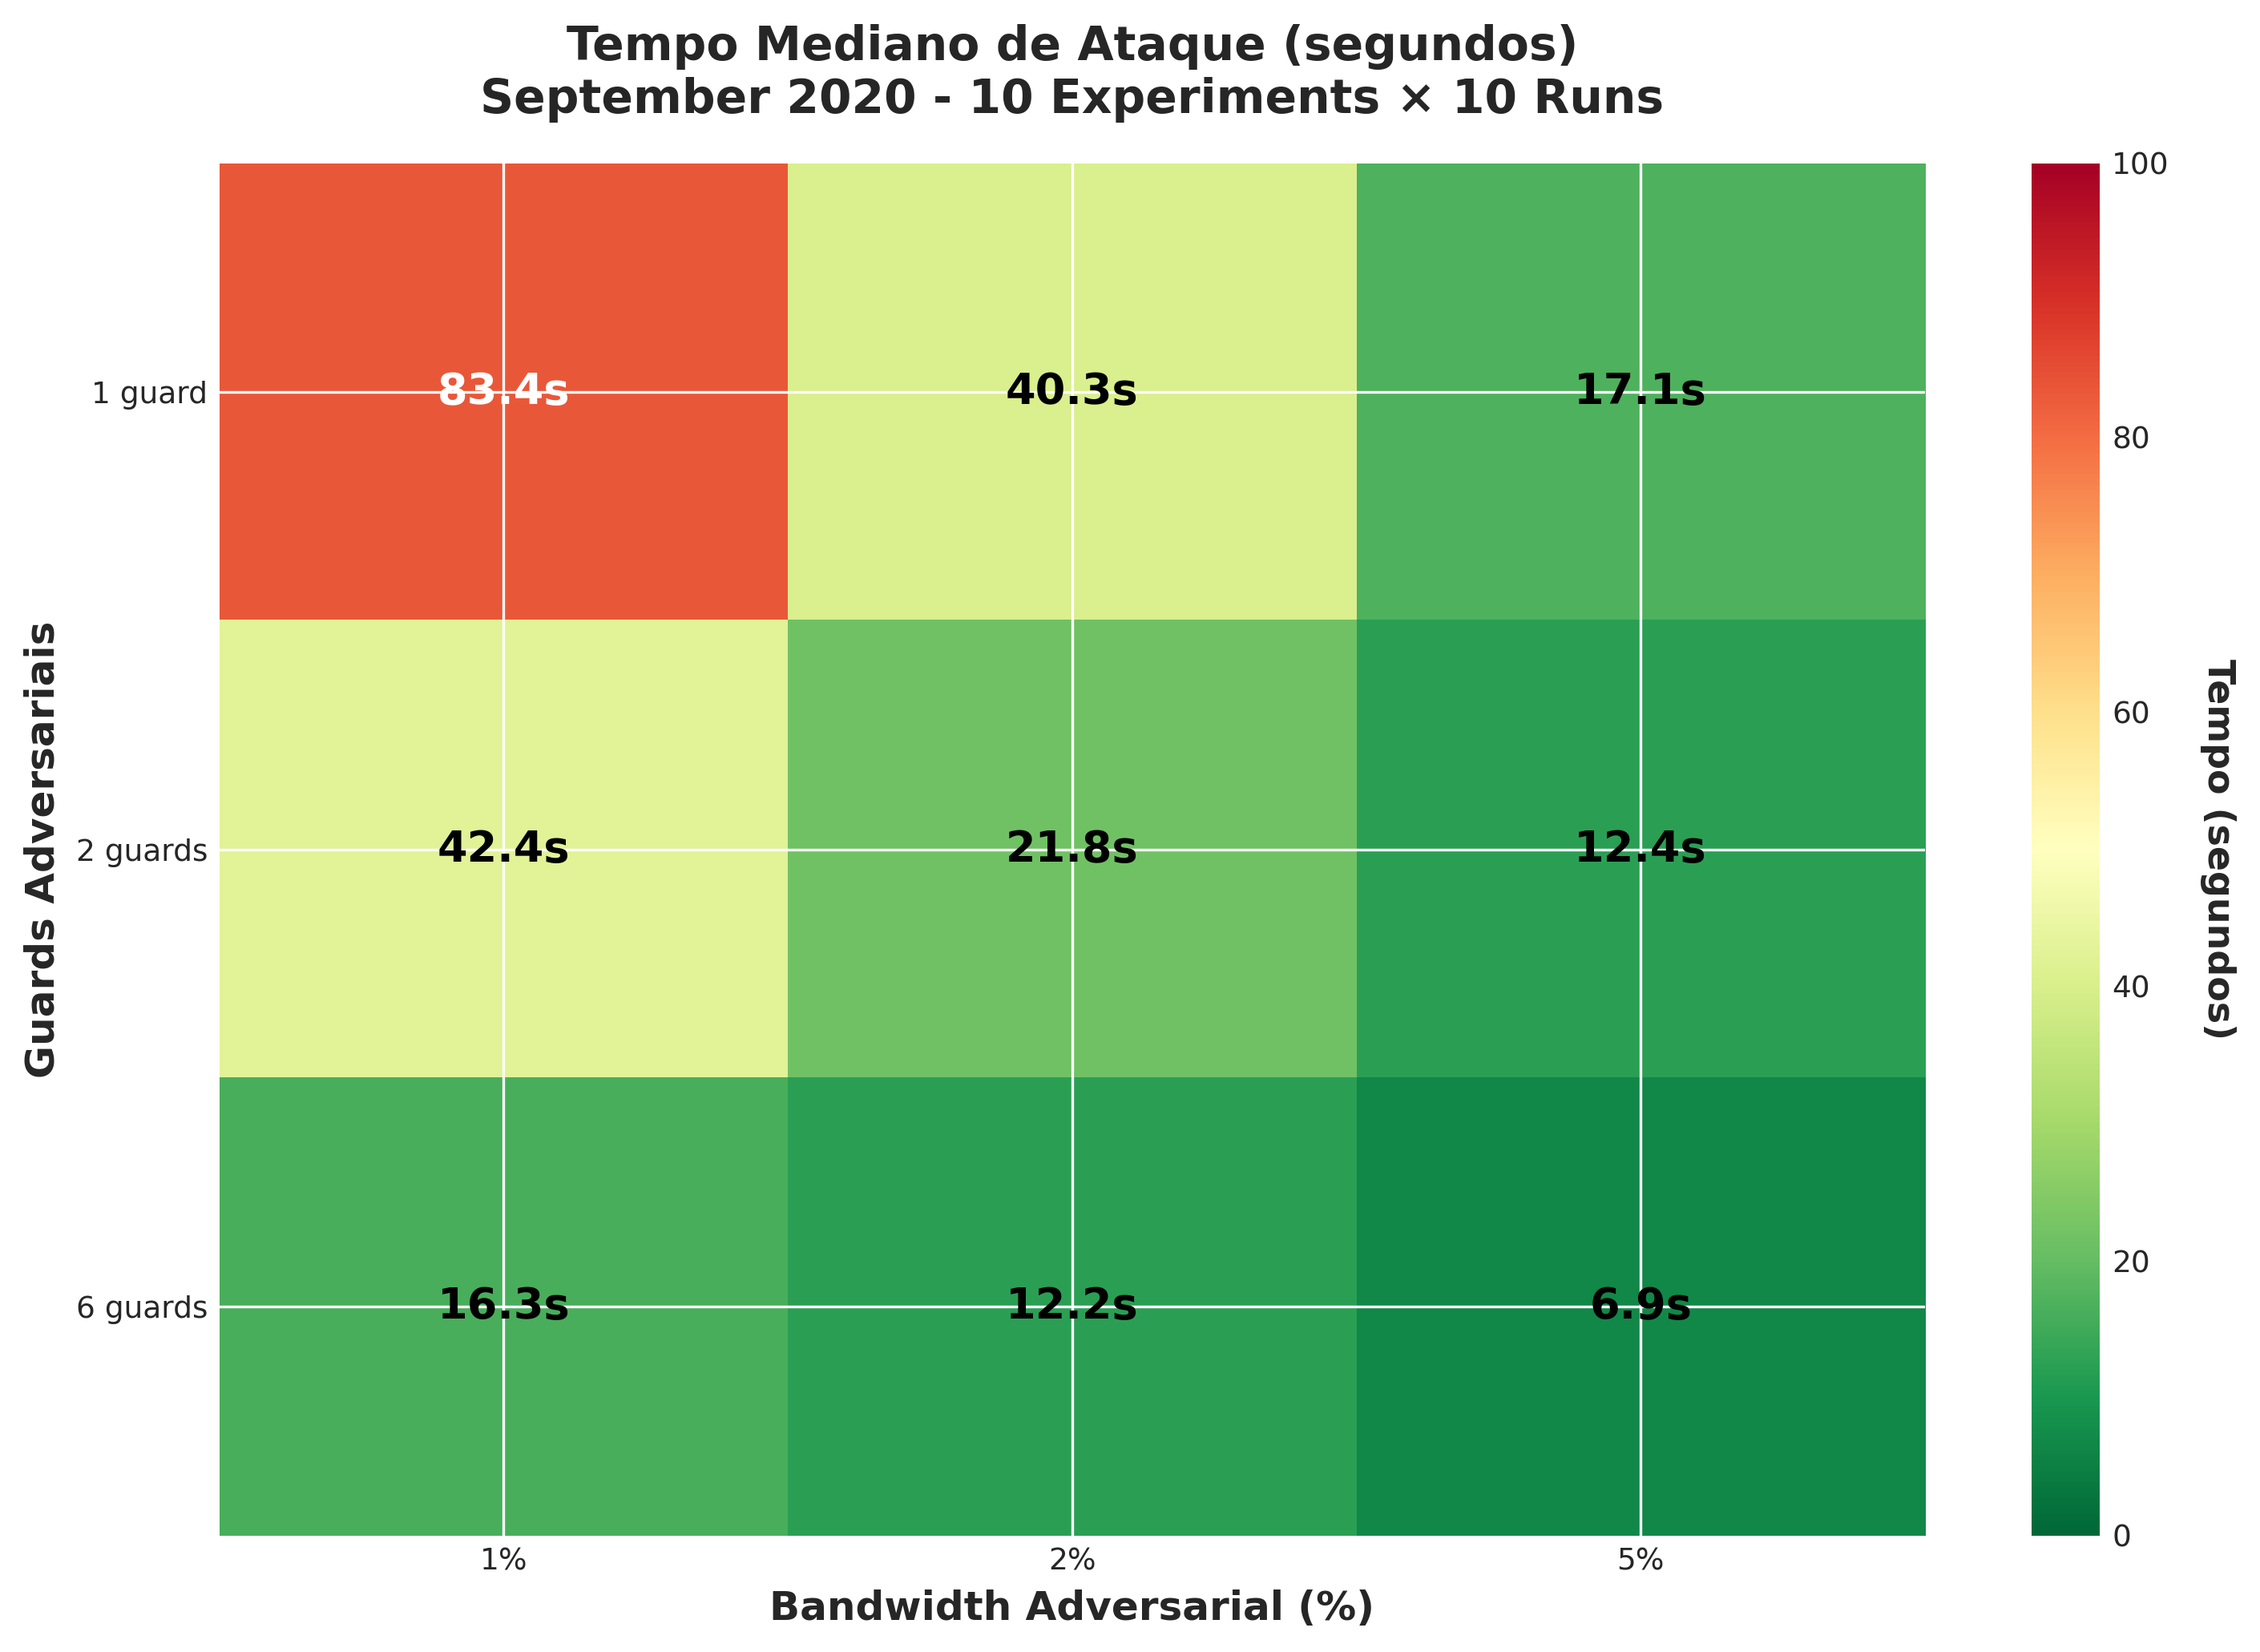
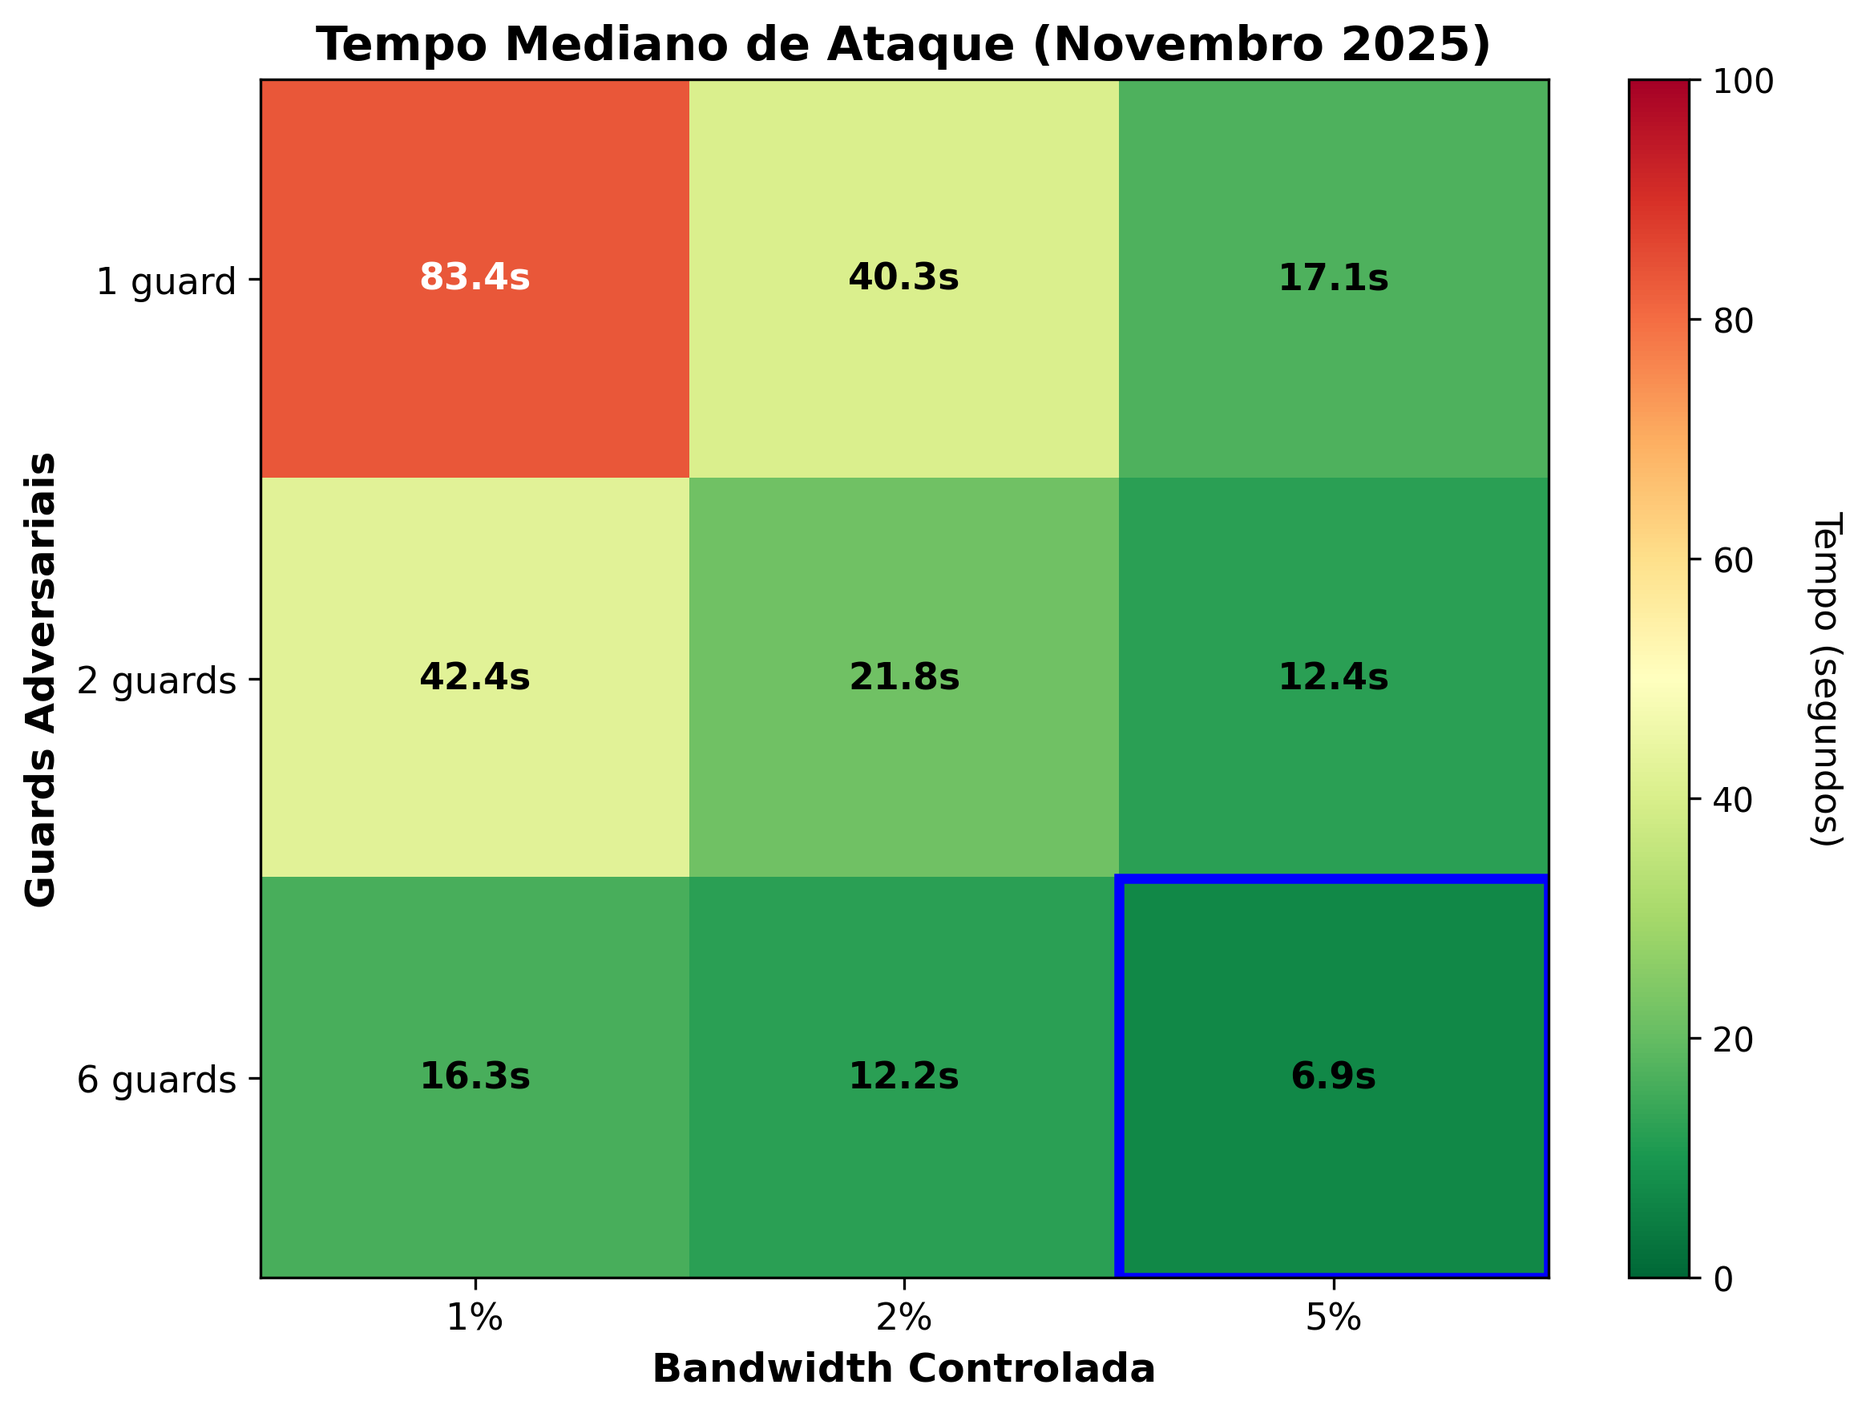
graph update

diff --git a/5_evaluation/generate_2025_graphs.py b/5_evaluation/generate_2025_graphs.py
@@ -1,0 +1,187 @@
+#!/usr/bin/env python3
+"""
+Gera gráficos específicos para dados de 2025
+"""
+
+import json
+import matplotlib.pyplot as plt
+import numpy as np
+from pathlib import Path
+
+# Configuração
+DATA_DIR = Path("study-2025/results")
+OUTPUT_DIR = Path("study-2025/graphs")
+OUTPUT_DIR.mkdir(exist_ok=True)
+
+configs = [
+    (1, 0.01), (1, 0.02), (1, 0.05),
+    (2, 0.01), (2, 0.02), (2, 0.05),
+    (6, 0.01), (6, 0.02), (6, 0.05)
+]
+
+# Ler dados de 2025
+medians_2025 = []
+success_rates_2025 = []
+labels = []
+
+for guards, bw in configs:
+    filename = DATA_DIR / f"time_to_double_comp_{guards}_{bw:.2f}_0_0.000.json"
+    with open(filename) as f:
+        data = json.load(f)
+    
+    durations = [d for d in data['attack_durations'] if d < 300]
+    total = len(data['attack_durations'])
+    
+    if durations:
+        medians_2025.append(np.median(durations))
+    else:
+        medians_2025.append(300)  # timeout
+    
+    success_rates_2025.append(len(durations) / total * 100)
+    labels.append(f'{guards}g, {int(bw*100)}%')
+
+print(f"Dados processados: {len(medians_2025)} configurações")
+
+# ===== GRÁFICO 1: Barras de tempos 2025 =====
+fig, ax = plt.subplots(figsize=(12, 6))
+x = np.arange(len(labels))
+bars = ax.bar(x, medians_2025, color='#2ca02c', alpha=0.8, label='2025')
+
+ax.set_xlabel('Configuração (Guards, Bandwidth)', fontsize=12, fontweight='bold')
+ax.set_ylabel('Tempo Mediano (segundos)', fontsize=12, fontweight='bold')
+ax.set_title('Tempos de Ataque - Dados Novembro 2025', fontsize=14, fontweight='bold')
+ax.set_xticks(x)
+ax.set_xticklabels(labels, rotation=45, ha='right')
+ax.legend(fontsize=11)
+ax.grid(axis='y', alpha=0.3)
+
+# Destacar cenário realista (2g, 5% = índice 5)
+bars[5].set_color('#ff7f0e')
+bars[5].set_alpha(1.0)
+
+plt.tight_layout()
+output_file = OUTPUT_DIR / "attack_times_2025.png"
+plt.savefig(output_file, dpi=300, bbox_inches='tight')
+print(f"✓ Criado: {output_file}")
+plt.close()
+
+# ===== GRÁFICO 2: Heatmap 2025 =====
+medians_matrix = np.array(medians_2025).reshape(3, 3)
+
+fig, ax = plt.subplots(figsize=(8, 6))
+im = ax.imshow(medians_matrix, cmap='RdYlGn_r', aspect='auto', vmin=0, vmax=100)
+
+ax.set_xticks([0, 1, 2])
+ax.set_xticklabels(['1%', '2%', '5%'], fontsize=11)
+ax.set_yticks([0, 1, 2])
+ax.set_yticklabels(['1 guard', '2 guards', '6 guards'], fontsize=11)
+ax.set_xlabel('Bandwidth Controlada', fontsize=12, fontweight='bold')
+ax.set_ylabel('Guards Adversariais', fontsize=12, fontweight='bold')
+ax.set_title('Tempo Mediano de Ataque (Novembro 2025)', fontsize=14, fontweight='bold')
+
+# Adicionar valores nas células
+for i in range(3):
+    for j in range(3):
+        value = medians_matrix[i, j]
+        text_color = 'white' if value > 50 else 'black'
+        ax.text(j, i, f'{value:.1f}s',
+                ha='center', va='center', color=text_color, 
+                fontsize=11, fontweight='bold')
+
+# Destacar cenário realista (2g, 5%)
+rect = plt.Rectangle((1.5, 1.5), 1, 1, fill=False, edgecolor='blue', linewidth=3)
+ax.add_patch(rect)
+
+cbar = plt.colorbar(im, ax=ax)
+cbar.set_label('Tempo (segundos)', rotation=270, labelpad=20, fontsize=11)
+
+plt.tight_layout()
+output_file = OUTPUT_DIR / "attack_time_heatmap_2025.png"
+plt.savefig(output_file, dpi=300, bbox_inches='tight')
+print(f"✓ Criado: {output_file}")
+plt.close()
+
+# ===== GRÁFICO 3: Taxa de sucesso 2025 =====
+fig, ax = plt.subplots(figsize=(12, 6))
+bars = ax.bar(x, success_rates_2025, color='#1f77b4', alpha=0.8)
+
+ax.set_xlabel('Configuração (Guards, Bandwidth)', fontsize=12, fontweight='bold')
+ax.set_ylabel('Taxa de Sucesso (%)', fontsize=12, fontweight='bold')
+ax.set_title('Taxa de Sucesso do Ataque - Novembro 2025', fontsize=14, fontweight='bold')
+ax.set_xticks(x)
+ax.set_xticklabels(labels, rotation=45, ha='right')
+ax.set_ylim(0, 105)
+ax.grid(axis='y', alpha=0.3)
+
+# Adicionar valores
+for i, (bar, rate) in enumerate(zip(bars, success_rates_2025)):
+    ax.text(bar.get_x() + bar.get_width()/2, bar.get_height() + 1,
+            f'{rate:.0f}%', ha='center', va='bottom', fontsize=9, fontweight='bold')
+    
+# Destacar cenário realista
+bars[5].set_color('#ff7f0e')
+
+# Linha de referência em 100%
+ax.axhline(y=100, color='green', linestyle='--', linewidth=1.5, alpha=0.5, label='100% sucesso')
+ax.legend(fontsize=10)
+
+plt.tight_layout()
+output_file = OUTPUT_DIR / "attack_success_rate_2025.png"
+plt.savefig(output_file, dpi=300, bbox_inches='tight')
+print(f"✓ Criado: {output_file}")
+plt.close()
+
+# ===== GRÁFICO 4: Comparação 2020 vs 2025 lado a lado =====
+# Ler dados de 2020 (dos nossos testes, não do paper)
+DATA_DIR_2020 = Path(".")
+medians_2020 = []
+
+for guards, bw in configs:
+    filename = DATA_DIR_2020 / f"time_to_double_comp_{guards}_{bw:.2f}_0_0.000.json"
+    try:
+        with open(filename) as f:
+            data = json.load(f)
+        durations = [d for d in data['attack_durations'] if d < 300]
+        if durations:
+            medians_2020.append(np.median(durations))
+        else:
+            medians_2020.append(300)
+    except FileNotFoundError:
+        medians_2020.append(0)  # Se não existir, usar 0 em vez de None
+
+# Só criar gráfico se temos dados de 2020
+if any(m > 0 for m in medians_2020):
+    fig, ax = plt.subplots(figsize=(14, 6))
+    x = np.arange(len(labels))
+    width = 0.35
+
+    bars1 = ax.bar(x - width/2, medians_2020, width, label='2020', color='#1f77b4', alpha=0.8)
+    bars2 = ax.bar(x + width/2, medians_2025, width, label='2025', color='#2ca02c', alpha=0.8)
+
+ax.set_xlabel('Configuração (Guards, Bandwidth)', fontsize=12, fontweight='bold')
+ax.set_ylabel('Tempo Mediano (segundos)', fontsize=12, fontweight='bold')
+ax.set_title('Comparação Temporal: 2020 vs 2025', fontsize=14, fontweight='bold')
+ax.set_xticks(x)
+ax.set_xticklabels(labels, rotation=45, ha='right')
+ax.legend(fontsize=11)
+ax.grid(axis='y', alpha=0.3)
+
+# Destacar cenário realista
+bars1[5].set_color('#ff7f0e')
+bars2[5].set_color('#d62728')
+
+    plt.tight_layout()
+    output_file = OUTPUT_DIR / "comparison_2020_vs_2025.png"
+    plt.savefig(output_file, dpi=300, bbox_inches='tight')
+    print(f"✓ Criado: {output_file}")
+    plt.close()
+else:
+    print("⚠ Dados de 2020 não encontrados, gráfico de comparação não criado")
+
+print("\n=== Resumo dos Dados 2025 ===")
+print(f"Tempo mediano mínimo: {min(medians_2025):.1f}s")
+print(f"Tempo mediano máximo: {max(medians_2025):.1f}s")
+print(f"Taxa sucesso mínima: {min(success_rates_2025):.1f}%")
+print(f"Taxa sucesso máxima: {max(success_rates_2025):.1f}%")
+print(f"\nCenário realista (2g, 5%): {medians_2025[5]:.1f}s, {success_rates_2025[5]:.0f}% sucesso")
+print("\nTodos os gráficos gerados com sucesso!")
